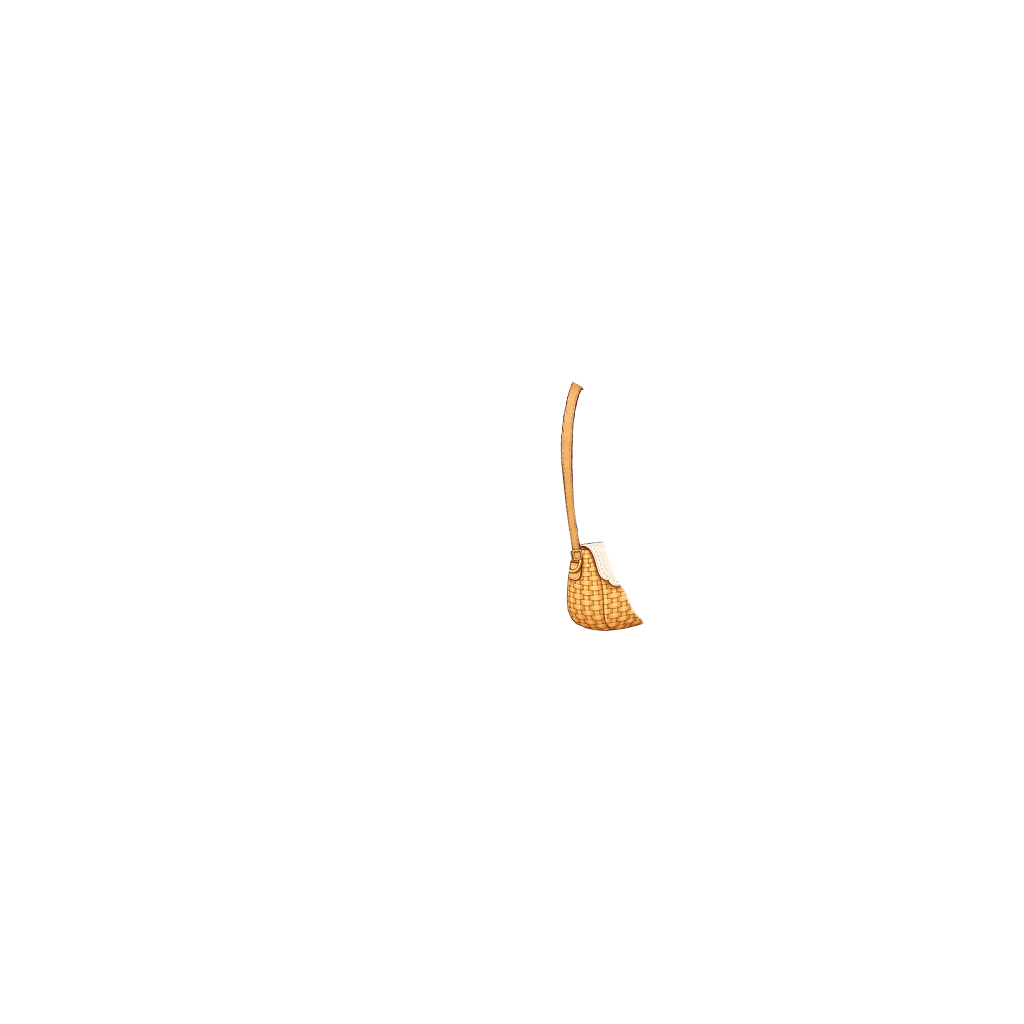
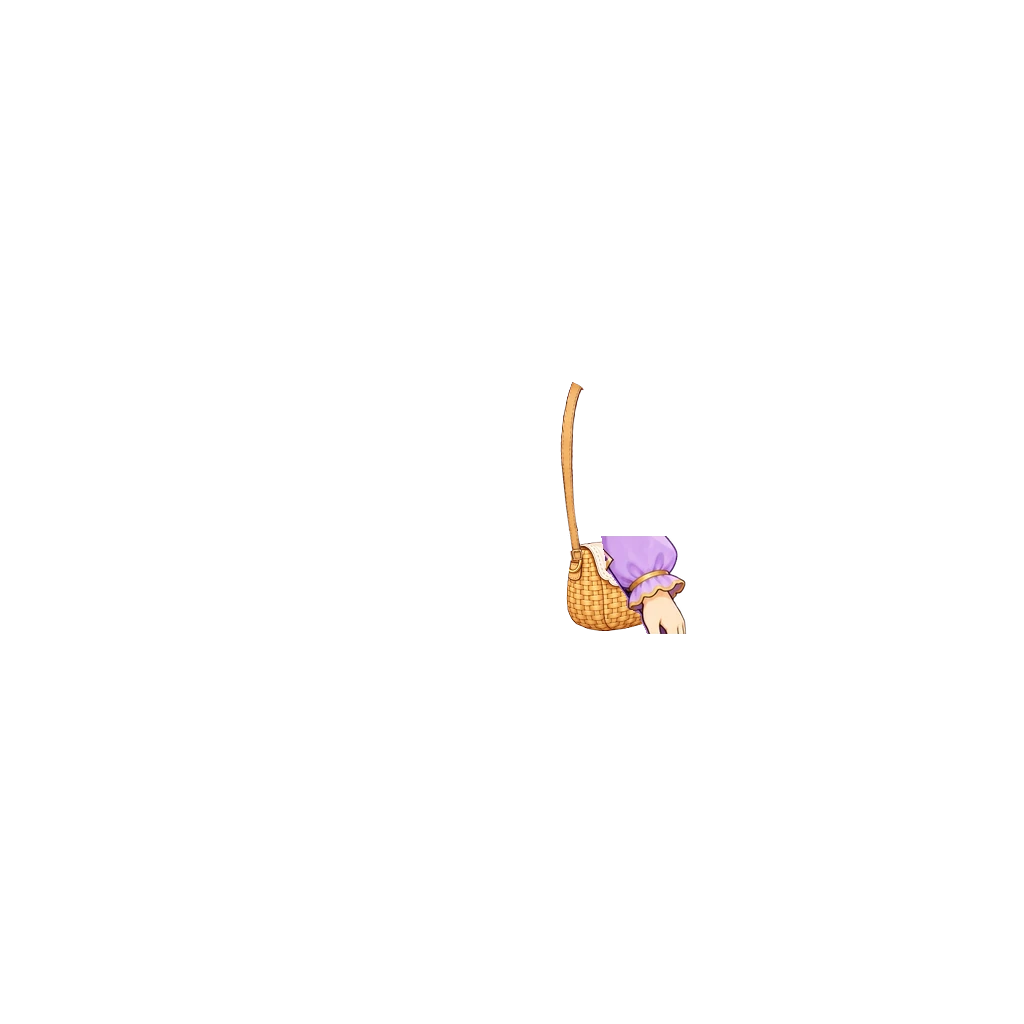
딸기 크로스백(마법사): 가방 위 팔 부분 깔끔하게, 팔 맨 위로 (#983)
* 딸기 크로스백(마법사): 가방 위 팔 부분 깔끔하게, 팔이 맨 위로

직선으로 자른 경계가 지저분했다 — 가방을 통째로 옷 위에 그리고, 그 위에 소매·소맷부리·손을 실제 소매 윤곽선을 따라 다시 그렸다.

Claude-Session: https://claude.ai/code/session_018maNuYqDfFyRSe9uKpZhPR

* 딸기 크로스백(마법사) 그림 버전 올림·기록

Claude-Session: https://claude.ai/code/session_018maNuYqDfFyRSe9uKpZhPR

---------

Changed region(s): [[0.5938, 0.5, 0.6875, 0.625]]

diff --git a/src/data/avatarEquipment.js b/src/data/avatarEquipment.js
@@ -541,8 +541,9 @@ export const AVATAR_CATALOG = [
      달빛 마법사: 원피스·소매가 커서 가방이 덮였다 → 소매 윤곽·소맷부리·손 왼쪽 경계까지 옷 위로. 
      [2026-10-11] 파티시에 — 팔 윤곽선(반투명 가장자리)까지 팔로 쳐서 가방이 팔을 조금도 덮지 않게(?v=2). 
      [2026-10-11] 리본 꼬리가 팔 위에 걸친 자리(가방 높이 근처)도 팔이 보이게 — 몸 그림의 팔을 앞장에 다시 그려 덮었다(?v=3). 
-     [2026-10-11] 가방과 팔 사이 틈으로 리본이 보였다 → 가방은 통째로 옷 위(앞장), 그 위에 팔을 다시 그려 팔이 맨 위(y520~가방 아래끝, ?v=4). */
-  { id: "back_strawberry_girl", slot: "back", label: "딸기 크로스백", emoji: "🍓", price:DECOR_PRICE.rare, rarity: "rare", theme: "picnic", forGender: "girl", z: 14, img: "assets/avatar/back/strawberry-crossbag-girl.webp?v=5", imgFront: "assets/avatar/back/strawberry-crossbag-strap-girl.webp?v=5", zFront: 48, topVariant: { top_bakery_girl: { img: "assets/avatar/back/strawberry-crossbag-bakery-girl.webp?v=4", imgFront: "assets/avatar/back/strawberry-crossbag-strap-bakery-girl.webp?v=4" }, top_magic: { img: "assets/avatar/back/strawberry-crossbag-magic-girl.webp", imgFront: "assets/avatar/back/strawberry-crossbag-strap-magic-girl.webp" } }, thumb: "assets/avatar/thumb/back_strawberry_girl.webp" },
+     [2026-10-11] 가방과 팔 사이 틈으로 리본이 보였다 → 가방은 통째로 옷 위(앞장), 그 위에 팔을 다시 그려 팔이 맨 위(y520~가방 아래끝, ?v=4).
+     [2026-10-11] 마법사 — 잘린 선이 지저분했다 → 가방 통째로 옷 위, 그 위에 소매·소맷부리·손을 실제 소매 윤곽선 따라 다시 그려 팔이 맨 위(리본 꼬리 끝은 가방 덮개 아래, ?v=2). */
+  { id: "back_strawberry_girl", slot: "back", label: "딸기 크로스백", emoji: "🍓", price:DECOR_PRICE.rare, rarity: "rare", theme: "picnic", forGender: "girl", z: 14, img: "assets/avatar/back/strawberry-crossbag-girl.webp?v=5", imgFront: "assets/avatar/back/strawberry-crossbag-strap-girl.webp?v=5", zFront: 48, topVariant: { top_bakery_girl: { img: "assets/avatar/back/strawberry-crossbag-bakery-girl.webp?v=4", imgFront: "assets/avatar/back/strawberry-crossbag-strap-bakery-girl.webp?v=4" }, top_magic: { img: "assets/avatar/back/strawberry-crossbag-magic-girl.webp?v=2", imgFront: "assets/avatar/back/strawberry-crossbag-strap-magic-girl.webp?v=2" } }, thumb: "assets/avatar/thumb/back_strawberry_girl.webp" },
   /* 우주 부츠 — 우주복 바지 밑단(y1425 근처)에 발목깃이 물리게 맞췄다. */
   /* [2026-10-03] 새 원화로 교체 — 남색·흰 우주 부츠(하늘색 띠·주황 탭) 두 짝, 사용자 원화 352×173. 위 탑재값은 옛 판 기록.
      여아 신발과 같은 방식 — 두 짝을 따로 잘라 원화 부츠목 가운데(왼짝 x85 · 오른짝 x56.5)를 남아 다리 가운데(x450.5 · x574.5)에,

diff --git a/art-src/README.md b/art-src/README.md
@@ -640,4 +640,4 @@ bbox로 여백만 잘라내고 배포본은 높이 480px로 축소했다(전부 
 | sea-tank-straps-boy-src.webp | **바다 산소통 원화 남아 — 어깨끈 (사용자 원화 2026-10-05)** — 남색 끈 두 줄·흰 버클. 맨 앞 zFront 48. 참고 그림 매칭 0.967, 배율 0.700×0.658·원점 (420,431). 탑재 상자 (420,431,618,544) → 위로 10·후드 맨 아래 라인에 맞춰 윗끝 자름·오른쪽 끈 왼쪽으로 5 (420,427,613,534) (img ?v=2) | avatar/hand/sea-tank-straps-boy.webp |
 | strawberry-crossbag-girl-src.webp | **딸기 크로스백 원화 여아 — 가방 (사용자 원화 2026-10-10)** — 라탄 가방·크림 덮개·딸기 장식, 딸기 소풍룩과 짝. 참고 그림(얼굴 매칭 0.917) 위치로 배율 0.73·원점 (586,596), 몸 뒤 z 14. 탑재 상자 (586,596,689,689) → 손끝보다 안 내려가게 위로 36(원점 (586,560)) (586,560,689,653) (img ?v=2) → 끈 고리에 닿게 위로 22(원점 (586,538)) (586,538,689,631) (img ?v=3) → 왼쪽으로 10, 손 왼쪽 경계에서 나눠 손 뒤쪽만 이 장(옷 뒤 z 14) (594,538,679,631) (img ?v=4) → 왼쪽으로 10 더(원점 (566,538)) (590,538,669,631) (img ?v=5). 상점 그림은 원화를 세로 160px 로 | avatar/back/strawberry-crossbag-girl.webp · thumb/back_strawberry_girl.webp |
 | strawberry-crossbag-strap-girl-src.webp | **딸기 크로스백 원화 여아 — 어깨끈 (사용자 원화 2026-10-10)** — 갈색 가죽끈. 왼쪽 어깨(552,386)→가방 고리(598,592)로 ×0.789·-6.2°, 맨 앞 zFront 48. 탑재 상자 (547,386,605,595) → 윗끝을 목 카라 옆 어깨선(580,382)·아래끝 (598,556) (572,382,604,558) (img ?v=2) → 윗끝 카라 바로 옆(574,382)·아래끝 (596,560) (566,382,603,562) (img ?v=3) → 가방의 손 왼쪽 반을 끈과 한 장으로 합쳐 옷 위(zFront 48) (564,382,622,631) (img ?v=4) → 가방 왼쪽으로 10 더, 아래끝 (576,560) (560,382,622,631) (img ?v=5) | avatar/back/strawberry-crossbag-strap-girl.webp |
-| (원본 같음) strawberry-crossbag-*-src.webp | **딸기 크로스백 옷별 나눔 (2026-10-10)** — 같은 위치에서 가방 앞뒤를 옷마다 다르게 나눈 탑재본. 핑크 파티시에: 팔만 빼고 가방 전부 옷 위(리본 꼬리 가림) — 팔 윤곽선까지 비워 팔이 온전히 보이게(?v=2). 리본 꼬리가 팔에 걸친 자리는 팔을 앞장에 다시 그려 덮음(?v=3). 가방 통째로 옷 위 + 팔을 그 위에 다시 그려 팔이 맨 위(?v=4). 달빛 마법사: 소매 윤곽(602,538)→소맷부리(628,600)→손(646,631) 왼쪽까지 옷 위 | avatar/back/strawberry-crossbag-{,strap-}{bakery,magic}-girl.webp |
+| (원본 같음) strawberry-crossbag-*-src.webp | **딸기 크로스백 옷별 나눔 (2026-10-10)** — 같은 위치에서 가방 앞뒤를 옷마다 다르게 나눈 탑재본. 핑크 파티시에: 팔만 빼고 가방 전부 옷 위(리본 꼬리 가림) — 팔 윤곽선까지 비워 팔이 온전히 보이게(?v=2). 리본 꼬리가 팔에 걸친 자리는 팔을 앞장에 다시 그려 덮음(?v=3). 가방 통째로 옷 위 + 팔을 그 위에 다시 그려 팔이 맨 위(?v=4). 달빛 마법사: 소매 윤곽(602,538)→소맷부리(628,600)→손(646,631) 왼쪽까지 옷 위 — 이후 가방 통째로 옷 위 + 소매·손을 실제 윤곽선 따라 그 위에 다시 그림(?v=2) | avatar/back/strawberry-crossbag-{,strap-}{bakery,magic}-girl.webp |
